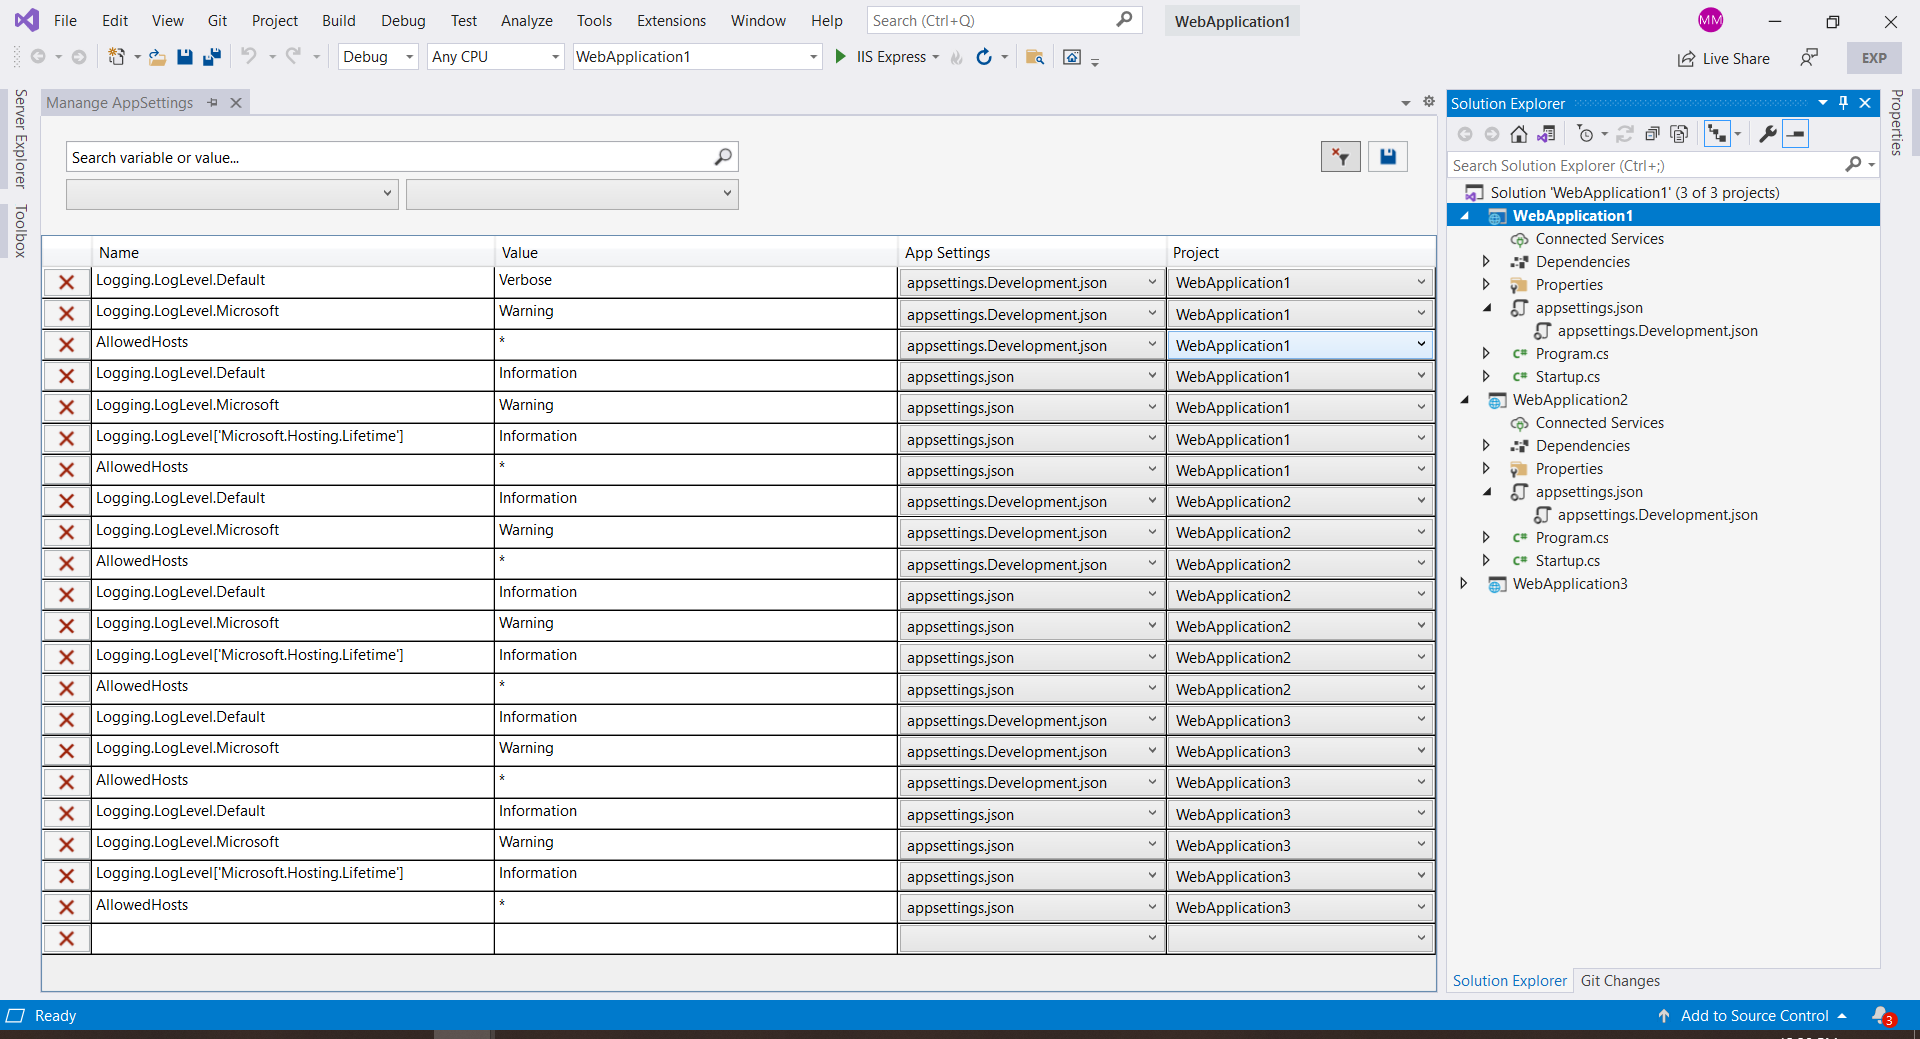
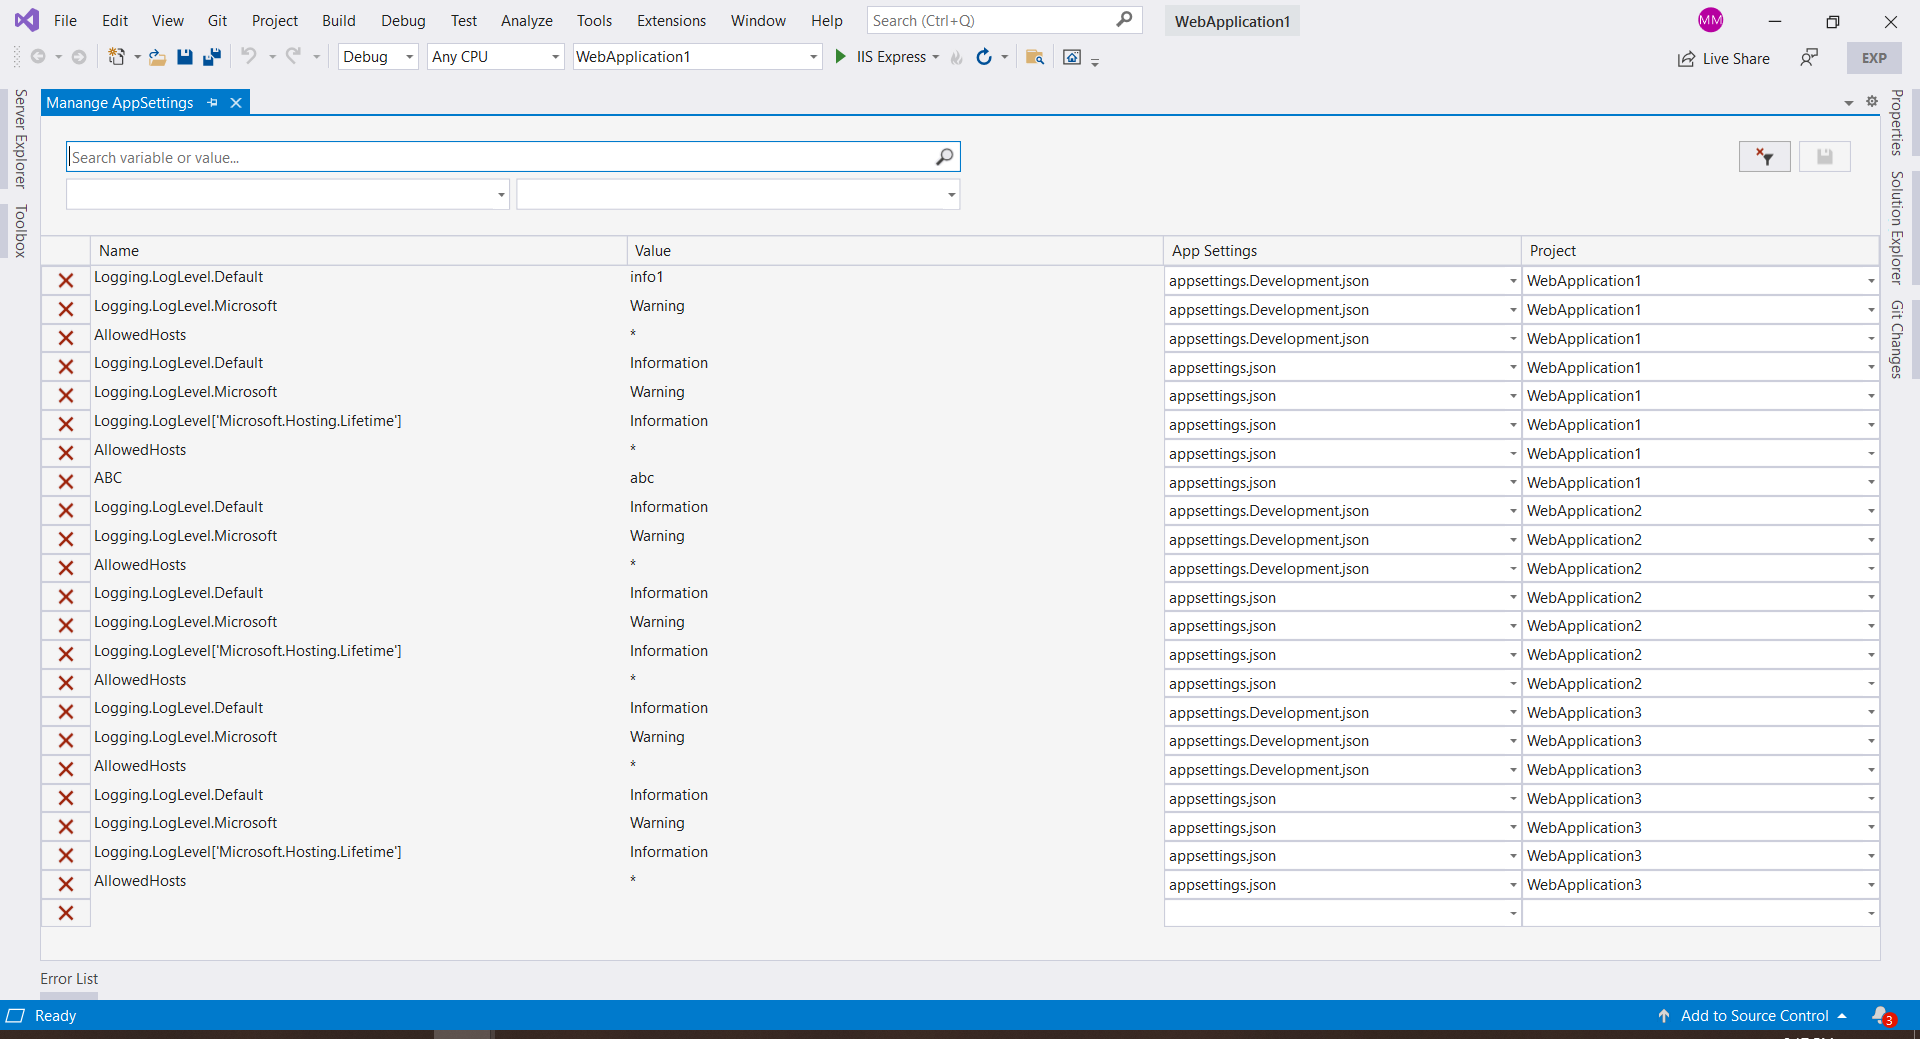
Themed around visual studio, bug fix while adding new setting, update preview

Changed region(s): [[0.4375, 0.0616, 1.0, 0.924], [0.0, 0.0616, 0.375, 0.9856], [0.75, 0.924, 0.875, 0.9548]]

diff --git a/src/Nahl.AppSettingsManager.VisualStudio/ToolWindows/AppSettingsManagerToolWindowControl.xaml b/src/Nahl.AppSettingsManager.VisualStudio/ToolWindows/AppSettingsManagerToolWindowControl.xaml
@@ -10,8 +10,17 @@
              xmlns:catalog="clr-namespace:Microsoft.VisualStudio.Imaging;assembly=Microsoft.VisualStudio.ImageCatalog"  
              mc:Ignorable="d" d:DesignHeight="450" d:DesignWidth="800" Name="AppSettingsManagerToolWindow">
     <UserControl.Resources>
-        <BooleanToVisibilityConverter x:Key="BooleanToVisibilityConverter" />
-        <!--<ResourceDictionary>
+        <ResourceDictionary>
+            <ui:NegateBooleanConverter x:Key="NotValue"></ui:NegateBooleanConverter>
+            <Style x:Key="WarterMarkTextBlock" TargetType="TextBlock">
+                <Setter Property="Foreground" Value="{DynamicResource {x:Static ui:EnvironmentColors.CommandBarMenuWatermarkLinkTextBrushKey}}"></Setter>
+                <Setter Property="Visibility" Value="Visible"/>
+                <Style.Triggers>
+                    <DataTrigger Binding="{Binding IsSearchKeyword}" Value="True">
+                        <Setter Property="Visibility" Value="Hidden"/>
+                    </DataTrigger>
+                </Style.Triggers>
+            </Style>
             <Style TargetType="{x:Type Button}" BasedOn="{StaticResource {x:Static vs:VsResourceKeys.ThemedDialogButtonStyleKey}}"></Style>
             <Style TargetType="{x:Type TextBox}" BasedOn="{StaticResource {x:Static vs:VsResourceKeys.ThemedDialogTextBoxStyleKey}}"></Style>
             <Style TargetType="{x:Type CheckBox}" BasedOn="{StaticResource {x:Static vs:VsResourceKeys.ThemedDialogCheckBoxStyleKey}}"></Style>
@@ -19,7 +28,88 @@
             <Style TargetType="{x:Type Label}" BasedOn="{StaticResource {x:Static vs:VsResourceKeys.ThemedDialogLabelStyleKey}}">
                 <Setter Property="Padding" Value="0"></Setter>
             </Style>
-        </ResourceDictionary>-->
+            <Style TargetType="DataGridColumnHeader">
+                <Setter Property="Background" Value="{DynamicResource {x:Static ui:EnvironmentColors.ToolWindowBackgroundBrushKey}}"/>
+                <Setter Property="Foreground" Value="{DynamicResource {x:Static ui:EnvironmentColors.ToolWindowTextBrushKey}}"/>
+                <Setter Property="MinHeight" Value="25" />
+                <Setter Property="Padding" Value="5" />
+                <Setter Property="Template">
+                    <Setter.Value>
+                        <ControlTemplate TargetType="DataGridColumnHeader">
+                            <Grid Name="HeaderGrid">
+                                <Grid.ColumnDefinitions>
+                                    <ColumnDefinition Width="*" />
+                                    <ColumnDefinition Width="Auto" />
+                                </Grid.ColumnDefinitions>
+                                <Border x:Name="BackgroundBorder" BorderThickness="0,1,1,1" Grid.ColumnSpan="2"
+                                        BorderBrush="{DynamicResource {x:Static ui:EnvironmentColors.ToolWindowBorderBrushKey}}" />
+                                <ContentPresenter Margin="6,3,6,3" VerticalAlignment="Center" Grid.Column="0" />
+                                <Path x:Name="SortArrow" Visibility="Collapsed" Data="M0,0 L1,0 0.5,1 z" Stretch="Fill" 
+                                      Grid.Column="1" Width="8" Height="6" VerticalAlignment="Center" RenderTransformOrigin="0.5,0.4"
+                                      Fill="{DynamicResource {x:Static ui:EnvironmentColors.CommandBarMenuGlyphBrushKey}}" Margin="0,0,8,0" />
+                                <Thumb x:Name="PART_RightHeaderGripper" HorizontalAlignment="Right" Cursor="SizeWE" Grid.Column="1" >
+                                    <Thumb.Style>
+                                        <Style TargetType="{x:Type Thumb}">
+                                            <Setter Property="Width" Value="2" />
+                                            <Setter Property="Template">
+                                                <Setter.Value>
+                                                    <ControlTemplate TargetType="{x:Type Thumb}">
+                                                        <Border Background="Transparent"/>
+                                                    </ControlTemplate>
+                                                </Setter.Value>
+                                            </Setter>
+                                        </Style>
+                                    </Thumb.Style>
+                                </Thumb>
+                            </Grid>
+                            <ControlTemplate.Triggers>
+                                <Trigger Property="SortDirection" Value="Ascending">
+                                    <Setter TargetName="SortArrow" Property="Visibility" Value="Visible" />
+                                    <Setter TargetName="SortArrow" Property="RenderTransform">
+                                        <Setter.Value>
+                                            <RotateTransform Angle="180" />
+                                        </Setter.Value>
+                                    </Setter>
+                                </Trigger>
+                                <Trigger Property="SortDirection" Value="Descending">
+                                    <Setter TargetName="SortArrow" Property="Visibility" Value="Visible" />
+                                </Trigger>
+                                <Trigger Property="IsMouseOver" Value="True">
+                                    <Setter TargetName="BackgroundBorder" Property="Background" Value="{DynamicResource {x:Static ui:EnvironmentColors.CommandBarHoverBrushKey}}" />
+                                </Trigger>
+                                <Trigger Property="IsPressed" Value="True">
+                                    <Setter TargetName="BackgroundBorder" Property="Background" Value="{DynamicResource {x:Static ui:EnvironmentColors.CommandBarMouseDownBorderBrushKey}}" />
+                                </Trigger>
+                            </ControlTemplate.Triggers>
+                        </ControlTemplate>
+                    </Setter.Value>
+                </Setter>
+            </Style>
+            <Style TargetType="{x:Type DataGridCell}">
+                <Setter Property="BorderThickness" Value="0" />
+                <Style.Triggers>
+                    <MultiDataTrigger>
+                        <MultiDataTrigger.Conditions>
+                            <Condition Binding="{Binding RelativeSource={RelativeSource Self}, Path=IsSelected}" Value="True" />
+                            <Condition Binding="{Binding RelativeSource={RelativeSource Mode=FindAncestor, AncestorType=DataGrid}, Path=IsKeyboardFocusWithin}" Value="False" />
+                        </MultiDataTrigger.Conditions>
+                        <MultiDataTrigger.Setters>
+                            <Setter Property="Foreground" Value="{DynamicResource {x:Static ui:EnvironmentColors.ToolWindowTextBrushKey}}" />
+                            <Setter Property="Background" Value="{DynamicResource {x:Static ui:EnvironmentColors.AccentBorderBrushKey}}" />
+                        </MultiDataTrigger.Setters>
+                    </MultiDataTrigger>
+                </Style.Triggers>
+            </Style>
+            <Style TargetType="{x:Type DataGridRow}">
+                <Setter Property="Foreground" Value="{DynamicResource {x:Static ui:EnvironmentColors.ToolWindowTextBrushKey}}" />
+                <Setter Property="Background" Value="{DynamicResource {x:Static ui:EnvironmentColors.ToolWindowBackgroundBrushKey}}" />
+            </Style>
+            <Style TargetType="{x:Type DataGrid}">
+                <Setter Property="GridLinesVisibility" Value="None"></Setter>
+                <Setter Property="BorderThickness" Value="0" />
+                <Setter Property="Background" Value="{DynamicResource {x:Static ui:EnvironmentColors.ToolWindowBackgroundBrushKey}}" />
+            </Style>
+        </ResourceDictionary>
     </UserControl.Resources>
     <DockPanel Height="Auto" Width="Auto" LastChildFill="True">
         <Border DockPanel.Dock="Top" Margin="20" >
@@ -37,31 +127,19 @@
                     <TextBox Grid.Column="0" Grid.Row="0" Padding="0,3,25,0" Text="{Binding SearchKeyword, Mode=TwoWay, UpdateSourceTrigger=PropertyChanged}" />
                     <Grid>
                         <Border Grid.Column="0" Grid.Row="0" HorizontalAlignment="Right">
-                            <imaging:CrispImage
-                            Moniker="{x:Static catalog:KnownMonikers.Search}"
-                            Margin="5" Height="16" Width="16" />
+                            <imaging:CrispImage Moniker="{x:Static catalog:KnownMonikers.Search}" Margin="5" Height="16" Width="16" />
                         </Border>
-                        <TextBlock Text="Search variable or value..." IsHitTestVisible="False" Margin="5, 5">
-                            <TextBlock.Style>
-                                <Style TargetType="{x:Type TextBlock}">
-                                    <Setter Property="Visibility" Value="Visible"/>
-                                    <Style.Triggers>
-                                        <DataTrigger Binding="{Binding IsSearchKeyword}" Value="True">
-                                            <Setter Property="Visibility" Value="Hidden"/>
-                                        </DataTrigger>
-                                    </Style.Triggers>
-                                </Style>
-                            </TextBlock.Style>
+                        <TextBlock Text="Search variable or value..." IsHitTestVisible="False" Margin="5, 5" Style="{StaticResource WarterMarkTextBlock}">
                         </TextBlock>
                     </Grid>
                     <StackPanel Grid.Column="1" Grid.Row="0" Orientation="Horizontal" HorizontalAlignment="Right">
-                        <Button ToolTip="Clear" Click="btnClear_Click" MinWidth="32" Margin="3,0">
-                            <imaging:CrispImage
-                                Moniker="{x:Static catalog:KnownMonikers.DeleteFilter}"
-                                Margin="2" Height="16" Width="16" />
+                        <Button ToolTip="Clear filters" Click="btnClear_Click" MinWidth="32" Margin="3,0">
+                            <imaging:CrispImage 
+                                Moniker="{x:Static catalog:KnownMonikers.DeleteFilter}" Margin="2" Height="16" Width="16" />
                         </Button>
                         <Button ToolTip="Save" Click="btnSave_Click" MinWidth="32"  Margin="3,0" IsEnabled="{Binding IsDirty}">
                             <imaging:CrispImage
+                                Grayscale="{Binding IsDirty, Converter={StaticResource NotValue}}"
                                 Moniker="{x:Static catalog:KnownMonikers.Save}"
                                 Margin="2" Height="16" Width="16" />
                         </Button>
@@ -105,16 +183,15 @@
             </StackPanel>
         </Border>
         <DataGrid DockPanel.Dock="Bottom" VerticalAlignment="Stretch" HorizontalAlignment="Stretch" AutoGenerateColumns="False"
-              ItemsSource="{Binding VariablesView}" RowHeaderWidth="0" ColumnHeaderHeight="25">
+                  ItemsSource="{Binding VariablesView}" RowHeaderWidth="0" ColumnHeaderHeight="25">
             <DataGrid.Columns>
                 <DataGridTemplateColumn Header="" Width="40" CanUserSort="False" CanUserResize="False">
                     <DataGridTemplateColumn.CellTemplate>
                         <DataTemplate>
-                            <Button Tag="{Binding}" Command="Delete" MinWidth="32">
+                            <Button Tag="{Binding}" ToolTip="Delete variable" Command="Delete" MinWidth="32">
                                 <imaging:CrispImage
                                     Moniker="{x:Static catalog:KnownMonikers.Cancel}"
-                                    Height="16"
-                                    Width="16" />
+                                    Height="16" Width="16" />
                             </Button>
                         </DataTemplate>
                     </DataGridTemplateColumn.CellTemplate>

diff --git a/src/Nahl.AppSettingsManager.VisualStudio/Models/MainViewModel.cs b/src/Nahl.AppSettingsManager.VisualStudio/Models/MainViewModel.cs
@@ -331,12 +331,6 @@ namespace Nahl.AppSettingsManager.VisualStudio
                 var project = Projects.FirstOrDefault(x => x.ProjectId == variable.ProjectId);
                 variable.ProjectName = project.ProjectName;
             }
-
-            if (e.PropertyName == "FileName")
-            {
-                var appSettingJsonFile = AppSettingJsonFiles.FirstOrDefault(x => x.FileName == variable.FileName);
-                variable.FileName = appSettingJsonFile.FileName;
-            }
         }
 
         public void Reset()
